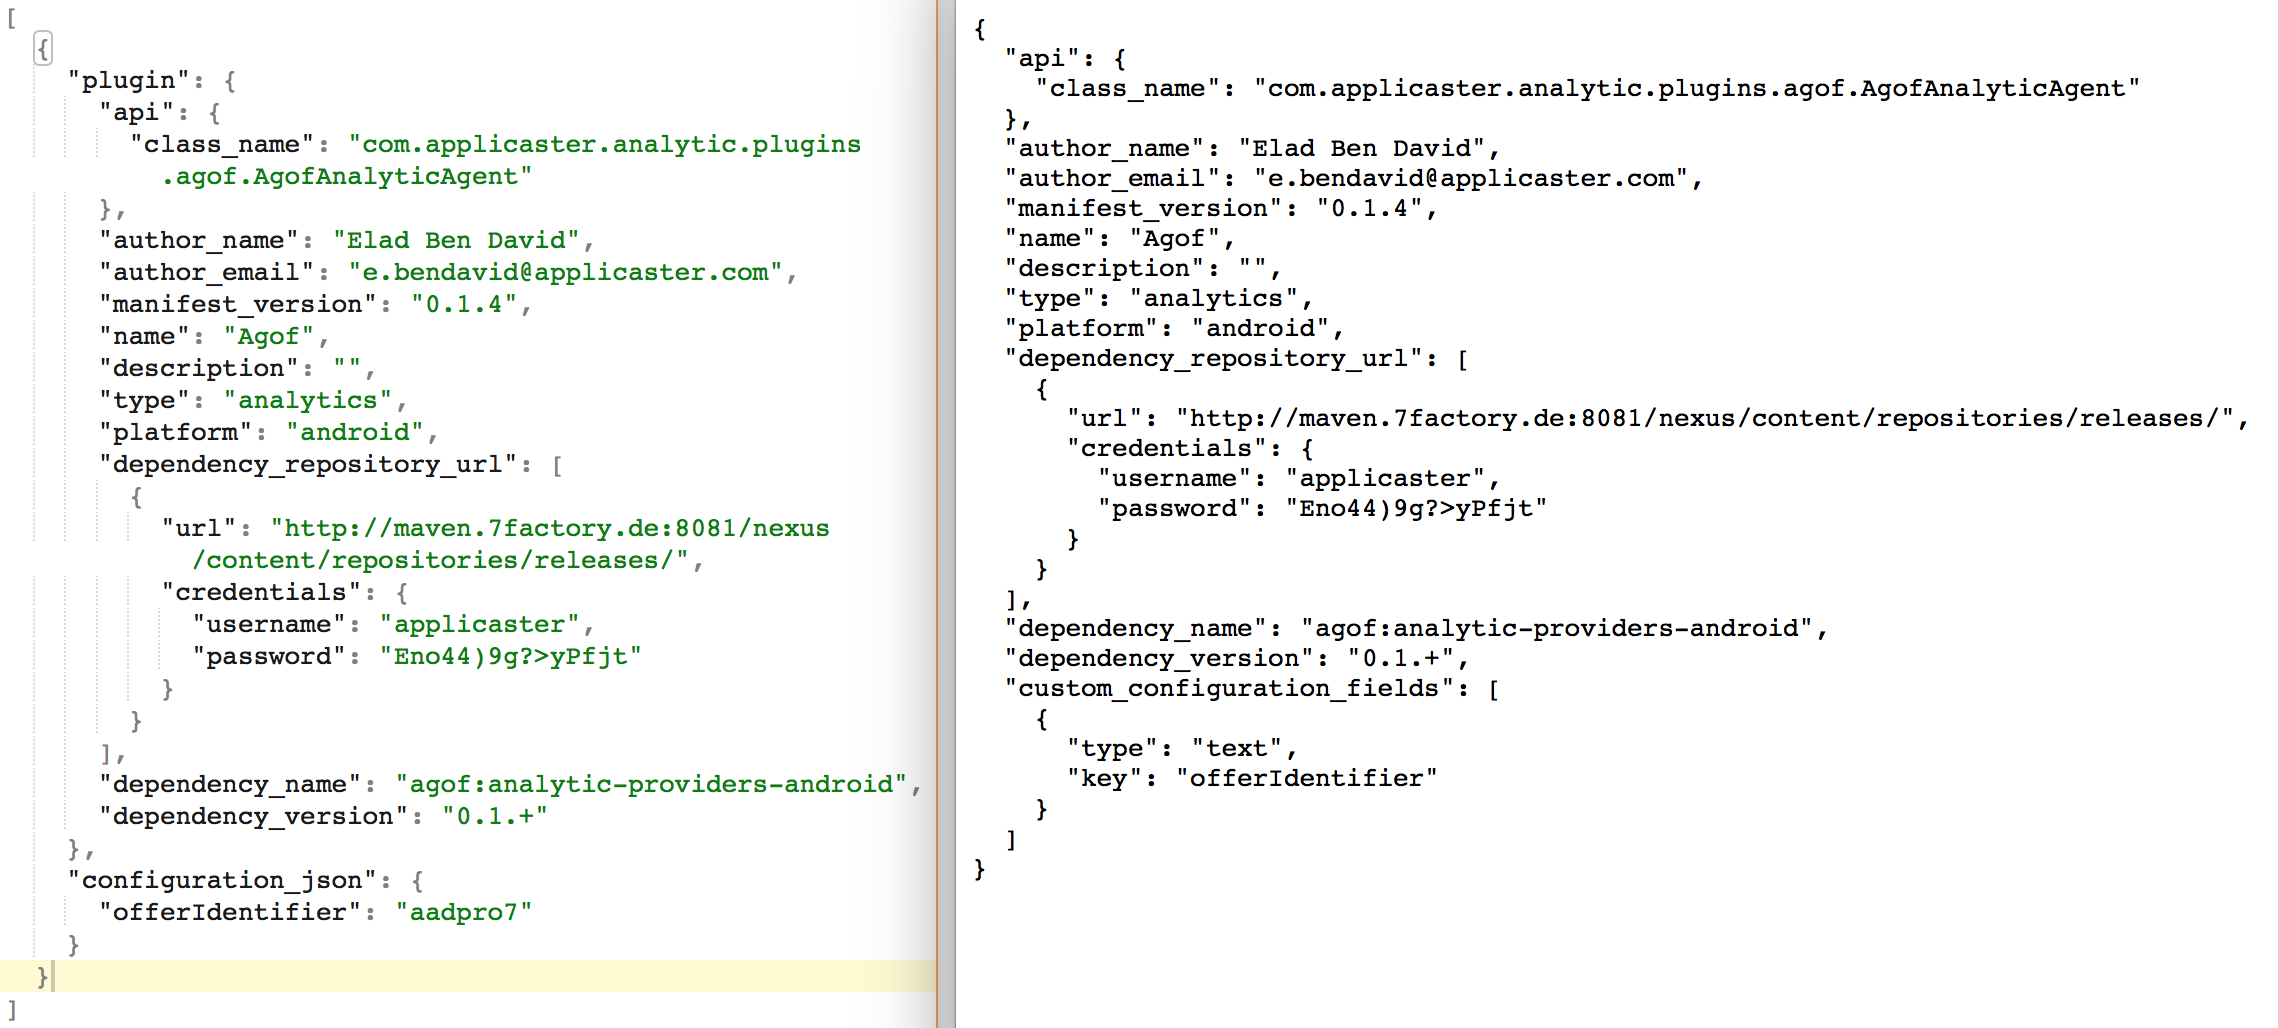
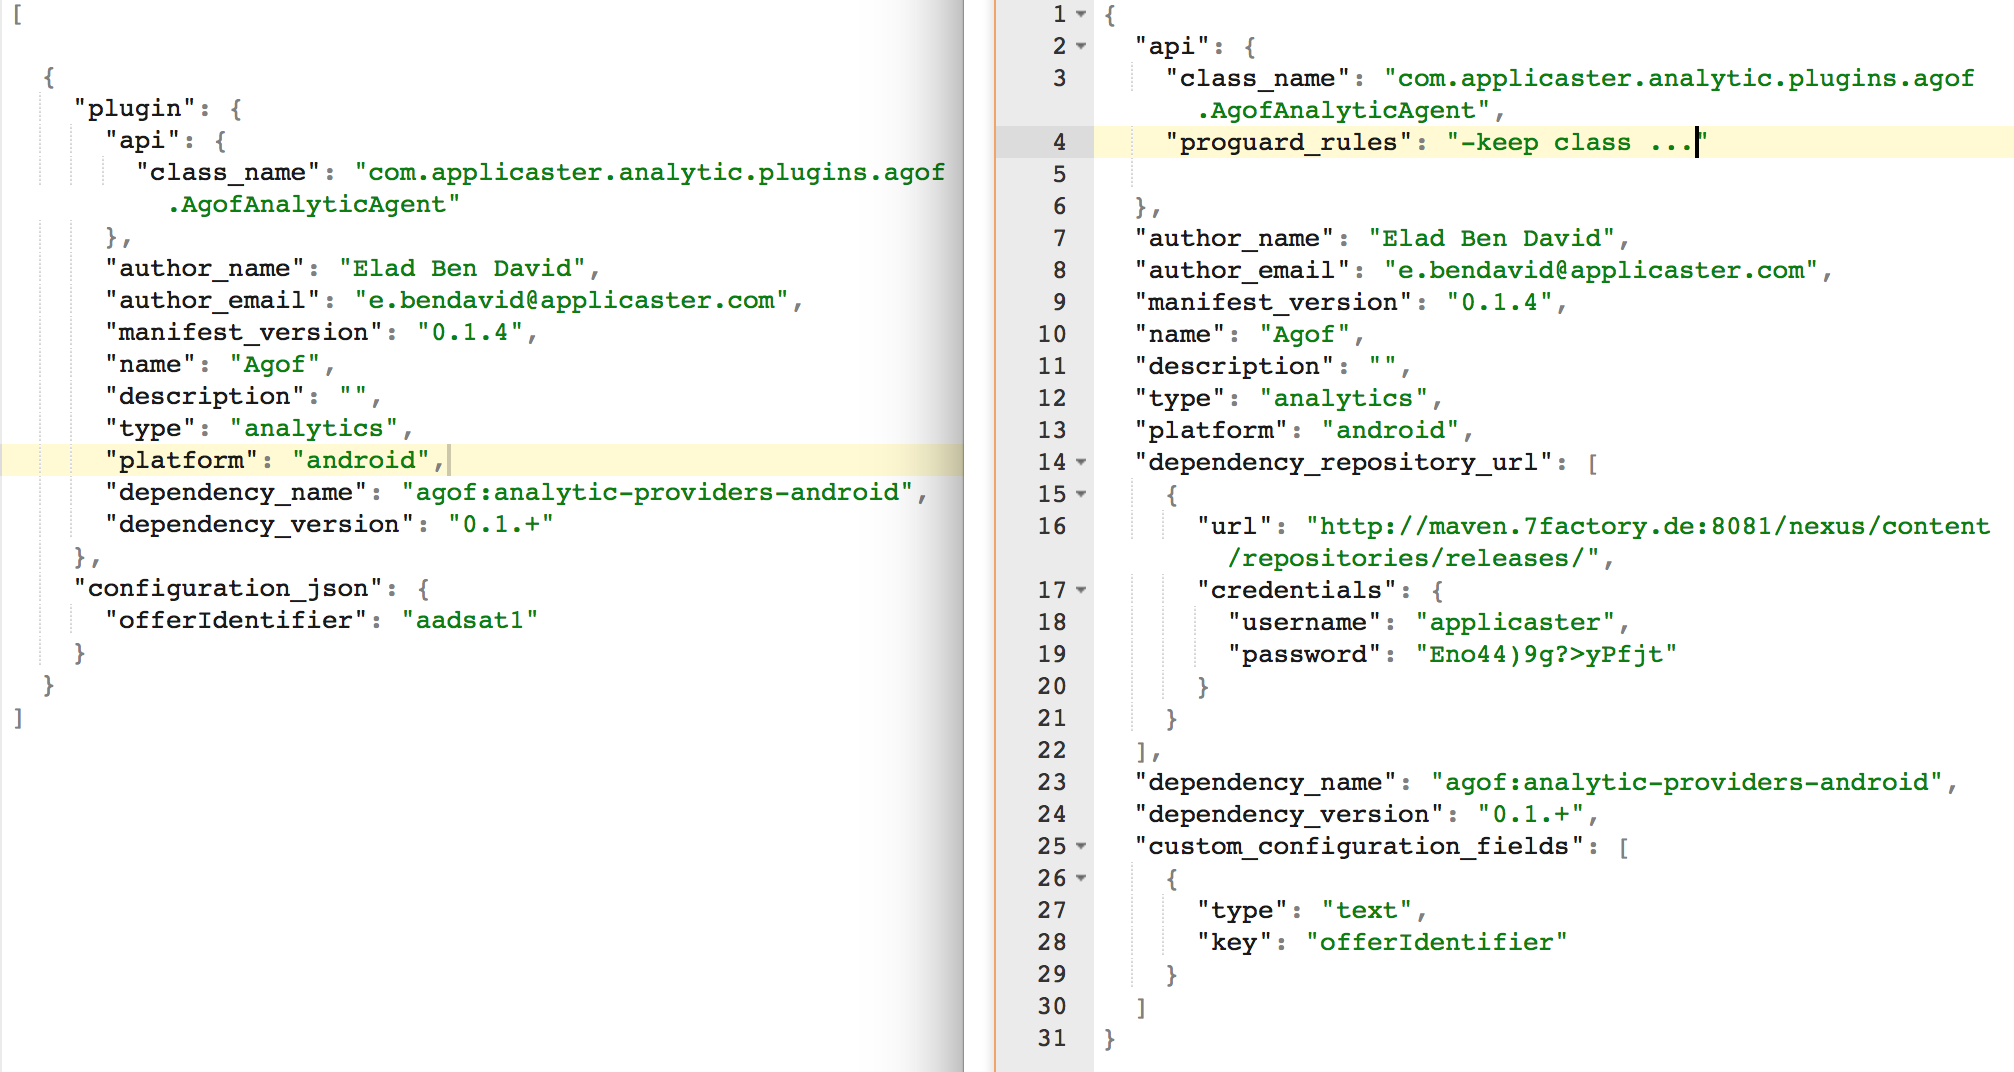
small fix

diff --git a/content/analytics-plugins/Analytic plugin in IOS integration application.md b/content/analytics-plugins/Analytic plugin in IOS integration application.md
@@ -28,7 +28,8 @@ The directions below outline how to add an analytic plugin to an Applicaster pro
             }
         ]
     ```
-    *   In the ‘plugin’ property past the content of the plugin manifest.
+    *   In the ‘plugin’ property past the content of the plugin manifest.  
+    Remove dependency_repository_url property.
     * In the ‘Configuration_json’ you need to configure the json variable, you can find the json variable list in custom_configuration_fields property in plugin manifest.  
     
     For example:  

diff --git a/content/analytics-plugins/Analytic plugin in Android integration application.md b/content/analytics-plugins/Analytic plugin in Android integration application.md
@@ -31,7 +31,8 @@ For example:
         }
       ]
     ```
-    *   In the ‘plugin’ property past the content of the plugin manifest.
+    *   In the ‘plugin’ property past the content of the plugin manifest.  
+    Remove proguard_rules and dependency_repository_url properties.
     * In the ‘Configuration_json’ you need to configure the json variable, you can find the json variable list in custom_configuration_fields property in plugin manifest.  
     
     For example:  
